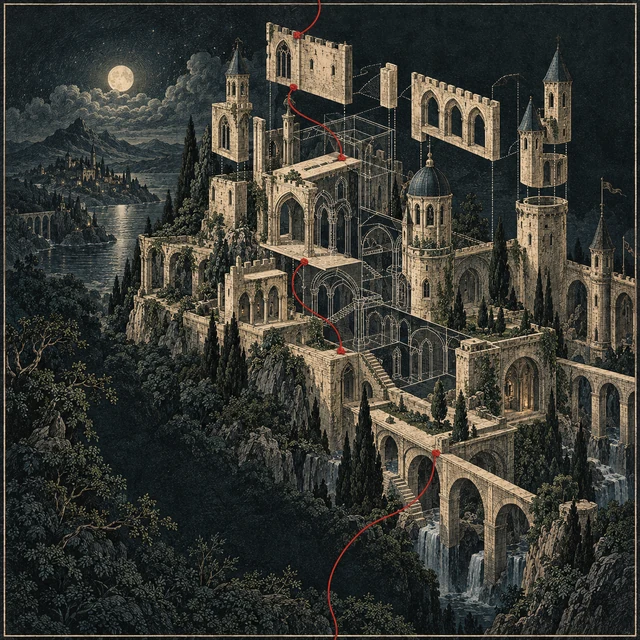
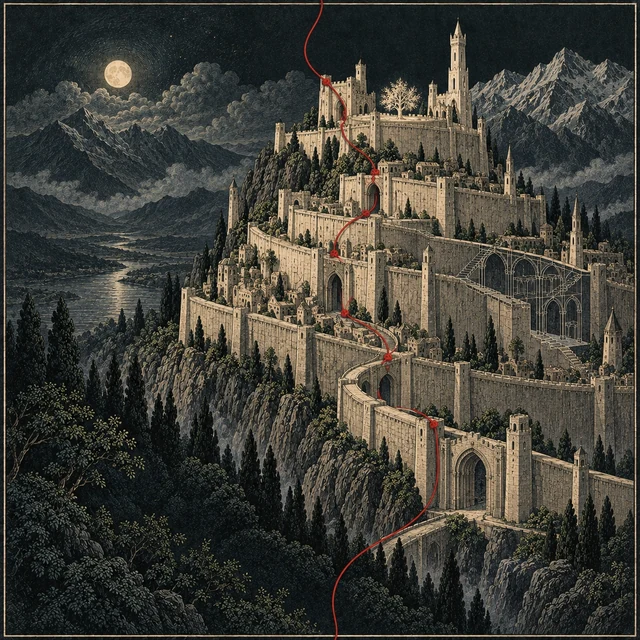
Give Open BFME artwork a Middle-earth-inspired White City

diff --git a/src/components/portfolio.tsx b/src/components/portfolio.tsx
@@ -176,11 +176,11 @@ export default function Portfolio() {
         <div className="plate-caption annotation"><span>KUNNSKAP SOM BYGGESTEINER</span><span>UIO / USN</span></div>
       </section>
 
-      <Thread start={472.9} end={498} label="02 — 03" />
+      <Thread start={472.9} end={502.1} label="02 — 03" />
 
       <section className="plate" id="open-bfme" aria-label="Open BFME">
         <Chapter number="03" title="Å GJENSKAPE" />
-        <Art name="bfme" alt="En fantasiborg under rekonstruksjon, med synlige konstruksjonstegninger og svevende steinblokker forbundet av den røde tråden." />
+        <Art name="bfme" alt="En Minas Tirith-inspirert hvit festningsby med terrasserte murer, et høyt tårn og det hvite treet foran dramatiske fjell. En rød tråd følger portene gjennom byen." />
         <Card number="03" category="OPEN SOURCE" title="Gamle verdener. Nye oppdagelser." side="lower-left" onOpen={() => openProject("bfme")} action="Utforsk bidragene">
           <p className="note-subtitle">OPEN BFME 1 & 2</p>
           <p>Å forstå et system ved å bygge det opp igjen. Jeg bidrar til rekonstruksjon av spillkode i C++ og ble invitert inn som collaborator i begge prosjektene.</p>
@@ -189,7 +189,7 @@ export default function Portfolio() {
         <div className="plate-caption annotation"><span>BAK FASADEN FINNES ET SYSTEM</span><span>BIDRAG TIL ET FELLES PROSJEKT</span></div>
       </section>
 
-      <Thread start={523.5} end={501.6} label="03 — 04" />
+      <Thread start={523.6} end={501.6} label="03 — 04" />
 
       <section className="plate" id="aipodcast" aria-label="AIpodcast">
         <Chapter number="04" title="Å LYTTE" />

diff --git a/src/app/globals.css b/src/app/globals.css
@@ -12,7 +12,7 @@ button:focus-visible, a:focus-visible, summary:focus-visible { outline: 2px soli
 ::selection { background: #bc483b; color: #fff5e0; }
 #arbeid { --thread-end: 52.67%; }
 #utdanning { --thread-end: 47.29%; }
-#open-bfme { --thread-end: 52.35%; }
+#open-bfme { --thread-end: 52.36%; }
 #aipodcast { --thread-end: 50.56%; }
 #sjakk { --thread-end: 52.27%; }
 @media (prefers-reduced-motion: reduce) { html { scroll-behavior: auto; } *, *::before, *::after { animation: none !important; transition: none !important; } }

diff --git a/docs/bfme-middle-earth-prompt.md b/docs/bfme-middle-earth-prompt.md
@@ -1,0 +1,29 @@
+# Open BFME — Middle-earth revision
+
+Created with the built-in OpenAI image tool. The exact backend model variant is not exposed by this interface.
+
+Reference 1 / edit target: `public/art/bfme.webp` from the original portfolio release.
+Reference 2 / style reference: `public/art/chess.webp`.
+
+## Exact prompt
+
+Use case: style-transfer.
+Asset type: One finished square fine-art illustration replacing the Open BFME chapter artwork of an artistic software developer portfolio. Artwork only, not a website mockup.
+
+Input image 1 is the EDIT TARGET, the current Open BFME artwork. Keep its square format, exquisite antique copperplate engraving technique, narrow aged-ivory perimeter border, deep navy/forest-green palette, tactile paper grain and single red thread. Replace the generic disassembled Gothic castle with a clearly recognizable Lord of the Rings / Middle-earth-inspired scene.
+Input image 2 is STYLE REFERENCE ONLY, the approved chess chapter. Match its fine ivory crosshatching, luminous old stone and muted blue-green shadows. Do not include chess pieces or a chessboard.
+
+Primary scene: Minas Tirith, the White City of Gondor, rising in curved concentric tiers around a great dramatic stone spur against the White Mountains. Its high white tower crowns the upper citadel; a small luminous White Tree stands in the summit courtyard. Make the terraced walls, sweeping stone ramparts and cliff-backed silhouette recognizable at a glance. This is a contemplative, handcrafted Middle-earth illustration, not a generic medieval cathedral and not a movie poster. An original composition, not a copied film still.
+The city is whole and dignified. Preserve only a very restrained reverse-engineering motif: one small architectural cutaway at the middle-right city wall revealing the arches and inner stone structure in fine ivory drafting lines. No large floating buildings, no exploded towers, no ruined city, no battle.
+
+Composition: square canvas. The grand white city occupies the upper-center and right-hand two thirds, with clear silhouette and detailed layered architecture. Keep the lower-left quadrant dark and visually quiet: engraved shadowed foothills and pine silhouettes, where the existing cream HTML project card will sit. No drawn card or empty rectangular box. Misty mountain depth and moonlit sky; warm ivory masonry against dark ink-blue and forest-green landscape.
+A single slender vermilion-red physical thread enters the TOP edge at 49.8% of the canvas width, winds elegantly through the city's gates and along the ascending terraces, and exits the BOTTOM edge at 52.35% of the canvas width. It connects the scene to the other artworks. Keep it a thin continuous cord with a few tiny knots, not a glowing cable, laser or decorative banner.
+
+Constraints: preserve the reference series' detailed engraved/gouache-on-aged-paper visual style and thin inset ivory frame on all four sides. Complete uncropped square artwork. No text, lettering, labels, logos, watermarks, UI, people, portraits, photorealism, glossy 3D rendering, or modern objects. No extra symbols or landmarks competing with Minas Tirith.
+
+## Saved artwork
+
+- `public/art/bfme.webp`: 1254 × 1254, desktop version.
+- `public/art/bfme-640.webp`: 640 × 640, mobile version.
+- The generated PNG is preserved in the external source-art collection; the previous PNG is retained as a dated backup.
+- The final image's measured thread endpoints are 50.21% (top) and 52.36% (bottom). The adjacent SVG connectors and mobile extension match those positions.

diff --git a/docs/artwork-prompts.md b/docs/artwork-prompts.md
@@ -61,6 +61,8 @@ Constraints: fine single cream perimeter rule like the reference. No lettering, 
 
 ## bfme
 
+Current artwork: [Middle-earth / Minas Tirith revision](bfme-middle-earth-prompt.md), generated after the user requested a Lord of the Rings-inspired scene. The original prompt below is retained as history and no longer describes the active artwork.
+
 # Open BFME artwork prompt
 
 Generation mode: built-in image generation. Reference used for style only.
